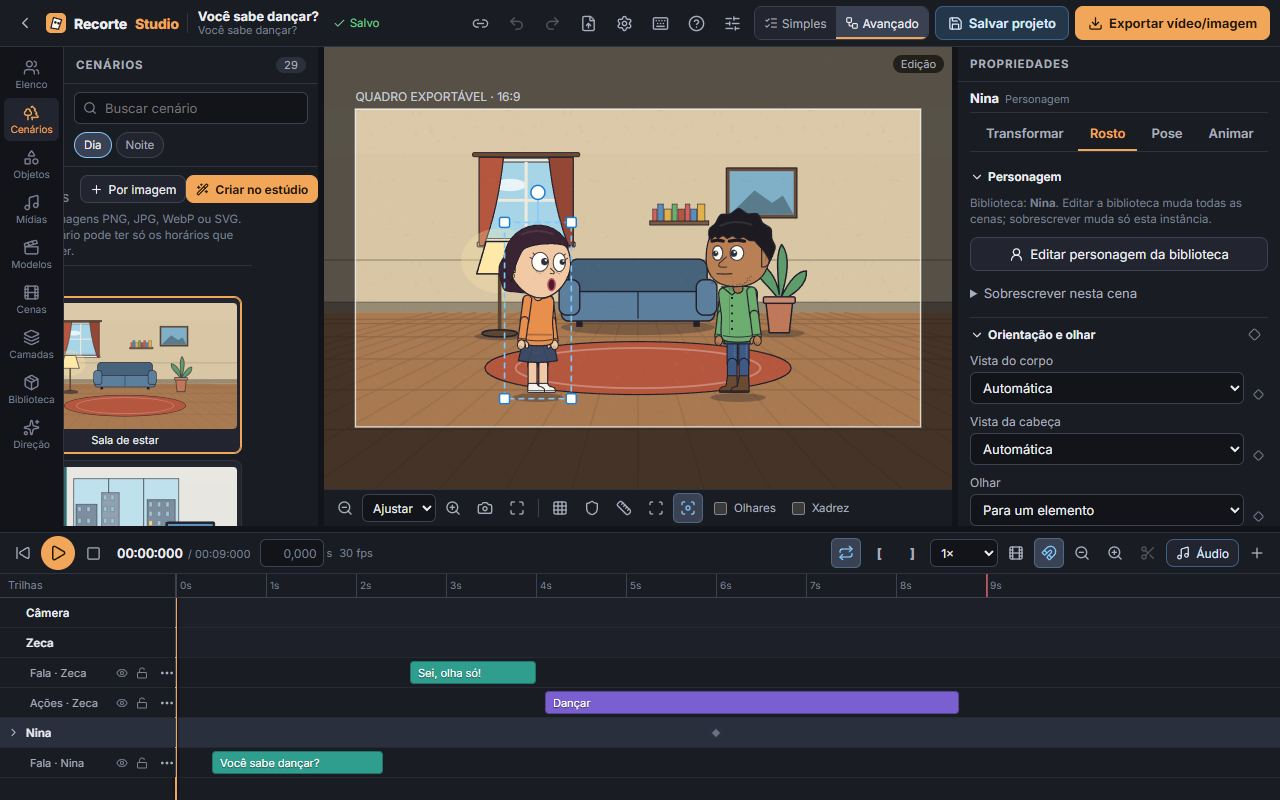
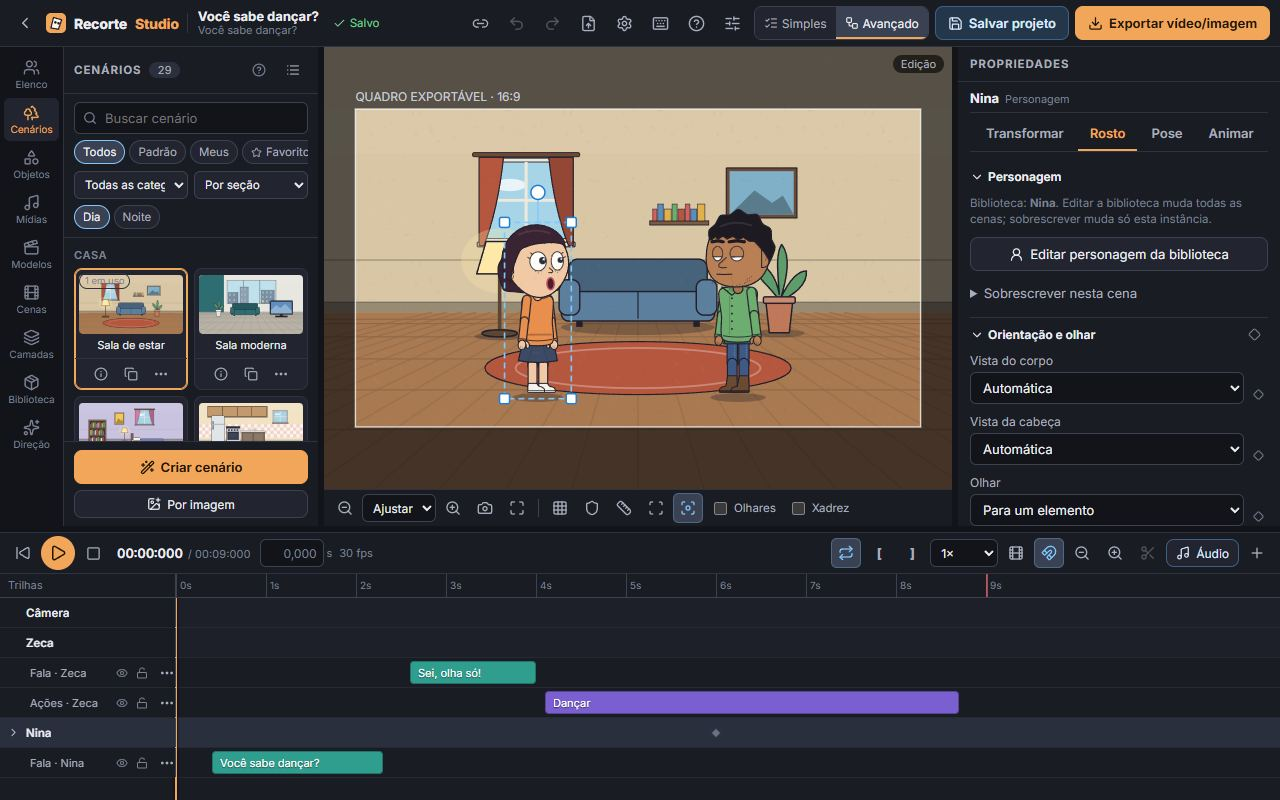
Manual, capturas e docs do catálogo, da animação por quadros e dos vínculos; teste de centenas de itens menos frágil
- Manual: capítulo novo "Catálogo: Elenco, Cenários e Objetos"; animação por quadros no
  Criador de Objetos; grupos e vínculos em Camadas; Shift+clique em Keyframes; biblioteca
- 3 capturas novas e as demais refeitas com a interface atual (manual:shots)
- docs/CATALOGO.md (arquitetura, compatibilidade, estado de cada critério, limitações),
  CHANGELOG, TESTES e ACEITACAO com os números reais

diff --git a/src/features/manual/chapters.ts b/src/features/manual/chapters.ts
@@ -150,6 +150,34 @@ export const MANUAL_CHAPTERS: Chapter[] = [
     related: ['animar', 'keyframes'],
   },
   {
+    id: 'catalogo', group: 'mundo', title: 'Catálogo: Elenco, Cenários e Objetos',
+    summary: 'Buscar, filtrar, ver detalhes, inserir, criar cópia editável e reutilizar em outros projetos.',
+    blocks: [
+      { p: 'As abas **Elenco**, **Cenários** e **Objetos** mostram o mesmo catálogo, cada uma com o que é dela. Ele junta três origens: itens **padrão** do app, itens **deste projeto** e itens da **minha biblioteca** (deste navegador, válidos em todos os projetos).' },
+      { img: 'catalogo.jpg', alt: 'Catálogo na aba Elenco', legend: ['Busca: não diferencia acentos nem maiúsculas.', 'Filtros: Todos, Padrão, Meus, Favoritos, Recentes e No projeto.', 'Categoria e ordem (por seção, nome, mais recentes ou favoritos primeiro).', 'Detalhes do item: vistas, estados e todas as ações.', 'Criar: sempre no rodapé, também no celular.'] },
+      { list: [
+        '**Clique no cartão** insere na cena (cenário: usa nesta cena; pose e sequência: aplicam ao personagem selecionado).',
+        'O selo do cartão mostra a origem (**Projeto**, **Meu**) e quantas vezes o item já está em uso.',
+        'O botão de lista/grade no topo troca a visualização. Busca e filtros de cada aba ficam guardados ao trocar de aba.',
+        'Listas grandes carregam aos poucos ao rolar (o botão **Mostrar mais** também funciona).',
+        'Registro da biblioteca que não pode ser lido aparece com o motivo e pode ser apagado; nunca some em silêncio.',
+      ] },
+      { img: 'catalogo-detalhes.jpg', alt: 'Detalhes de um personagem padrão', legend: ['Prévia real: 4 vistas do personagem (ou estados do objeto, horários do cenário, animações tocando).', 'O que acontece ao editar este item.', 'Inserir na cena.', 'Criar cópia editável (itens padrão).'] },
+      { h: 'Cópia ao editar' },
+      { p: 'Itens **padrão** nunca mudam. **Editar** um deles cria uma cópia sua, com identidade nova, guardada neste projeto, e abre o criador nela. Itens do projeto e da biblioteca são editados direto.' },
+      { h: 'Usar em outros projetos' },
+      { steps: [
+        'Nos detalhes de um item do projeto, clique em **Salvar na biblioteca**.',
+        'Abra outro projeto: o item aparece no catálogo com o selo **Meu**.',
+        'Clique para inserir: uma cópia completa (com imagens e objetos que ele usa) entra no projeto.',
+        'Mudou o item e quer guardar a versão nova? **Atualizar na biblioteca** grava no mesmo registro (não cria duplicado).',
+      ] },
+      { warn: 'Apagar da biblioteca não muda nenhum projeto: cada projeto guarda a própria cópia do que usa. Por isso um projeto nunca quebra por falta de item da biblioteca.' },
+      { tip: 'Exportar, nos detalhes, gera um arquivo .biblioteca.json que a aba Biblioteca importa em qualquer navegador.' },
+    ],
+    related: ['bibliotecas', 'criador-objetos', 'criador-personagens'],
+  },
+  {
     id: 'cenas', group: 'mundo', title: 'Cenas',
     summary: 'Criar, ordenar, duplicar e ligar cenas com transições.',
     blocks: [
@@ -168,7 +196,8 @@ export const MANUAL_CHAPTERS: Chapter[] = [
     id: 'cenarios', group: 'mundo', title: 'Cenários',
     summary: 'Cenários prontos, cenários por imagem e cenários do Criador de Cenários, com horários.',
     blocks: [
-      { img: 'cenarios.jpg', alt: 'Painel de cenários', legend: ['Criar um cenário no Criador de Cenários.', 'Criar um cenário a partir de imagens.'] },
+      { img: 'cenarios.jpg', alt: 'Painel de cenários', legend: ['Criar um cenário no Criador de Cenários.', 'Criar um cenário a partir de imagens (um por horário).'] },
+      { p: 'A aba **Cenários** é o catálogo de ambientes e fundos (veja [Catálogo](#catalogo)). Ela não mexe nas **Cenas** do projeto, que ficam na aba Cenas.' },
       { list: [
         '**Prontos:** salas, cozinha, escola, rua, parque e outros, com variante dia/noite, tom e cores ajustáveis (aba Visual).',
         '**Meus cenários:** podem ter os horários Manhã, Dia, Tarde, Entardecer e Noite. Cada horário é opcional.',
@@ -209,6 +238,8 @@ export const MANUAL_CHAPTERS: Chapter[] = [
         'Objetos prontos por categoria (móveis, casa, eletrônicos, objetos de mão, veículos, trabalho, natureza), com cores e estados (ligado/desligado, aberto/fechado).',
         'Objetos de mão podem ser **segurados** por um personagem (aba Aparência → Segurado por).',
         'Texto, forma, luz ou sombra 2D e imagem (PNG, JPEG, WebP, GIF, SVG). SVGs são limpos de scripts por segurança.',
+        '**Efeitos animados** prontos (Fogueira, Ventilador) e o **Barco**: inserir traz o objeto para o projeto uma vez; as próximas cópias reaproveitam.',
+        'Editar um objeto padrão cria uma cópia sua no Criador de Objetos; o original continua igual.',
       ] },
     ],
     related: ['criador-objetos', 'camadas'],
@@ -227,6 +258,18 @@ export const MANUAL_CHAPTERS: Chapter[] = [
         'Editar o objeto atualiza todas as cópias. Excluir avisa quantas vezes ele está em uso.',
       ] },
       { tip: 'Ctrl+Z desfaz também dentro dos criadores.' },
+      { h: 'Animação por quadros (fogo, porta, água…)' },
+      { p: 'A animação fica salva **no objeto**: toda cópia na cena anima sozinha, sem keyframes, também no PNG e no vídeo. Um objeto sem animação continua estático e simples.' },
+      { img: 'criador-objetos-quadros.jpg', alt: 'Quadros de uma animação', legend: ['Escolha o que editar: o desenho estático ou uma animação.', 'Quadros: clique para editar um; o selecionado tem borda laranja.', '+ Quadro duplica o atual logo depois dele.', 'Duração do quadro em milissegundos (Todos ajusta todos).', 'Tocar a prévia.'] },
+      { steps: [
+        'Clique em **Nova animação** e dê um nome (ex.: Aceso). Ela começa com 1 quadro, cópia do desenho.',
+        'Mude as peças do quadro. Use **+ Quadro** para o próximo e mude de novo.',
+        'Ajuste a duração de cada quadro (ou **Todos**) e o modo: **Repetir**, **Uma vez** ou **Vai e volta**.',
+        '**Papel vegetal** mostra o quadro anterior por baixo. Copiar/colar quadro e mover para os lados também estão na barra.',
+        '**Toca ao inserir** define a animação padrão do objeto. Um objeto pode ter várias (ex.: Aceso e Apagando).',
+      ] },
+      { p: 'Na cena, em **Propriedades → Aparência → Animação do objeto**, cada cópia escolhe a animação, a **velocidade** e a **defasagem** (para cópias iguais não andarem juntas). Trocar a animação com keyframe faz ela começar naquele instante.' },
+      { warn: 'Um objeto animado usado DENTRO de outro objeto ou de um cenário aparece parado no primeiro quadro.' },
     ],
     related: ['objetos', 'criador-cenarios', 'bibliotecas'],
   },
@@ -241,6 +284,16 @@ export const MANUAL_CHAPTERS: Chapter[] = [
         'Sombra no chão, máscara 2D (retângulo ou elipse), parallax e desfoque.',
         '**Escala pela profundidade**: com a perspectiva falsa da cena ligada, o elemento cresce ao descer no palco.',
       ] },
+      { h: 'Grupos e vínculos (barco com passageiros)' },
+      { p: 'Um **grupo** é pai dos elementos dentro dele: mover, girar, escalar ou animar o grupo leva todos juntos, e cada um continua com as próprias falas, ações, piscadas e keyframes.' },
+      { steps: [
+        'Em **Camadas**, selecione o barco e, com Shift, os passageiros; clique em **Agrupar**.',
+        'Ou selecione um elemento e use **Propriedades → Camadas → Vinculado a** para prendê-lo a um grupo que já existe.',
+        'Anime o grupo (por exemplo, posição Y e rotação para balançar).',
+        'As faixas dos passageiros continuam na timeline, logo abaixo do grupo ("Grupo › Nina").',
+      ] },
+      { p: 'Vincular, soltar e desagrupar mantêm cada elemento exatamente onde estava na tela, mesmo com o grupo girado ou escalado. Um grupo não pode ficar dentro dele mesmo.' },
+      { warn: 'Arrastar no palco um elemento que está dentro de um grupo girado move no sentido do grupo. Para ajuste fino, use os campos numéricos.' },
     ],
     related: ['propriedades'],
   },
@@ -307,7 +360,7 @@ export const MANUAL_CHAPTERS: Chapter[] = [
         'Não duplica nem sobrescreve: o que já tem keyframe naquele instante é mantido como está, e o aviso diz quantos foram criados e quantos já existiam.',
         'É uma única ação: um Ctrl+Z desfaz todos de uma vez.',
         'O losango mostra o estado neste instante: **vazio** (nenhuma propriedade com keyframe), **meio preenchido** (algumas) ou **cheio** (todas). Passe o mouse ou segure o dedo para ver quantas.',
-        'Não remove nada: para tirar um keyframe, use o losango da própria propriedade.',
+        '**Shift+clique** (no celular, toque longo → Remover os deste instante) remove só os keyframes desta seção **exatamente no tempo atual**. Outros instantes, outras seções e faixas trancadas ficam intactos; é um único Ctrl+Z. Se algum era o único keyframe da propriedade, o app pergunta antes (a animação dela acaba e o valor volta ao valor-base).',
         'Funciona do mesmo jeito no modo simples e no avançado, e no celular.',
       ] },
       { tip: 'Seções com uma só propriedade animável não têm o losango da seção: o do campo já basta.' },
@@ -388,8 +441,9 @@ export const MANUAL_CHAPTERS: Chapter[] = [
       { list: [
         'Personagens, poses, cenas e sequências: aba **Biblioteca**.',
         'Áudios: aba **Mídias** (botão de marcador).',
-        'Objetos: Criador de Objetos → Biblioteca; aparecem em Objetos → Meus objetos → Da minha biblioteca.',
-        'Cenários: Criador de Cenários → Biblioteca; aparecem em Cenários → Meus cenários.',
+        'Personagens, objetos e cenários do projeto: detalhes do item no [catálogo](#catalogo) → **Salvar na biblioteca**; aparecem com o selo **Meu** nas abas Elenco, Objetos e Cenários.',
+        'Objetos e cenários também pelo botão **Biblioteca** dos criadores. Salvar de novo atualiza o mesmo registro.',
+        'Poses: Elenco → **Salvar pose** (com um personagem selecionado); aparecem em Elenco → Poses.',
       ] },
       { warn: 'A biblioteca não vai junto num .jrec. O .jrec leva o que o projeto usa.' },
     ],

diff --git a/src/features/manual/marks.generated.ts b/src/features/manual/marks.generated.ts
@@ -2,21 +2,24 @@
 export const MARKS: Record<string, Array<{ n: number; x: number; y: number }>> = {
   'camadas.jpg': [{"n":1,"x":14.9,"y":23.7}],
   'camera.jpg': [{"n":1,"x":37.9,"y":63.5},{"n":2,"x":80.9,"y":13.9},{"n":3,"x":89.6,"y":13.9},{"n":4,"x":96,"y":13.9}],
+  'catalogo-detalhes.jpg': [{"n":1,"x":50,"y":35.6},{"n":2,"x":50,"y":64.4},{"n":3,"x":46,"y":71.4},{"n":4,"x":57.6,"y":71.4}],
+  'catalogo.jpg': [{"n":1,"x":15.7,"y":14.8},{"n":2,"x":14.9,"y":19.1},{"n":3,"x":10.2,"y":23.1},{"n":4,"x":7.9,"y":40.5},{"n":5,"x":14.9,"y":58.4}],
   'celular-pose.jpg': [{"n":1,"x":50,"y":49.7}],
   'celular.jpg': [{"n":1,"x":50,"y":51.7},{"n":2,"x":71.5,"y":2.6},{"n":3,"x":84.5,"y":2.6},{"n":4,"x":7.1,"y":95.9},{"n":5,"x":64.3,"y":95.9},{"n":6,"x":92.9,"y":95.9}],
-  'cenarios.jpg': [{"n":1,"x":19.7,"y":23.6},{"n":2,"x":10.4,"y":23.6}],
+  'cenarios.jpg': [{"n":1,"x":14.9,"y":58.4},{"n":2,"x":14.9,"y":63}],
   'cenas.jpg': [{"n":1,"x":14.9,"y":13}],
   'configuracoes.jpg': [{"n":1,"x":27.8,"y":30.1},{"n":2,"x":27.8,"y":35.4},{"n":3,"x":27.8,"y":56.4},{"n":4,"x":75.6,"y":23}],
   'criador-cenarios-inicio.jpg': [{"n":1,"x":13.4,"y":12},{"n":2,"x":22.8,"y":29.1},{"n":3,"x":31.8,"y":42}],
   'criador-cenarios.jpg': [{"n":1,"x":4.8,"y":12},{"n":2,"x":36.7,"y":23.4},{"n":3,"x":77.9,"y":18.8},{"n":4,"x":95.6,"y":18.8},{"n":5,"x":86.9,"y":4.2}],
-  'criador-objetos.jpg': [{"n":1,"x":8.5,"y":12},{"n":2,"x":36.7,"y":23.5},{"n":3,"x":77.9,"y":18.9},{"n":4,"x":86.8,"y":18.9},{"n":5,"x":87.2,"y":4.2}],
+  'criador-objetos-quadros.jpg': [{"n":1,"x":10.9,"y":19},{"n":2,"x":50,"y":24.1},{"n":3,"x":6.6,"y":32.5},{"n":4,"x":30.4,"y":32.5},{"n":5,"x":2,"y":32.5}],
+  'criador-objetos.jpg': [{"n":1,"x":8.5,"y":12},{"n":2,"x":36.7,"y":28.6},{"n":3,"x":77.9,"y":24},{"n":4,"x":86.8,"y":24},{"n":5,"x":87.2,"y":4.2}],
   'criador-personagem.jpg': [{"n":1,"x":74,"y":11.8},{"n":2,"x":32.3,"y":12},{"n":3,"x":92.6,"y":95}],
   'editor.jpg': [{"n":1,"x":2.5,"y":9.1},{"n":2,"x":49.8,"y":8.4},{"n":3,"x":87.4,"y":13.8},{"n":4,"x":50,"y":69},{"n":5,"x":65.7,"y":2.9},{"n":6,"x":78.3,"y":2.9},{"n":7,"x":91.6,"y":2.9}],
   'exportar.jpg': [{"n":1,"x":50,"y":23},{"n":2,"x":69.1,"y":85.9}],
   'inicio.jpg': [{"n":1,"x":31.1,"y":34.8},{"n":2,"x":44.6,"y":34.8},{"n":3,"x":9,"y":17},{"n":4,"x":9,"y":22.8},{"n":5,"x":9,"y":28.5},{"n":6,"x":9,"y":34.3}],
   'midias.jpg': [{"n":1,"x":10.5,"y":13.3},{"n":2,"x":10.7,"y":17.5},{"n":3,"x":13.1,"y":44.1}],
   'modelos.jpg': [{"n":1,"x":59.1,"y":17.1}],
-  'objetos.jpg': [{"n":1,"x":19.9,"y":27.3}],
+  'objetos.jpg': [{"n":1,"x":14.9,"y":62.6}],
   'pose.jpg': [{"n":1,"x":85.5,"y":20.2},{"n":2,"x":86.4,"y":53.4}],
   'projetos.jpg': [{"n":1,"x":36.3,"y":16.6},{"n":2,"x":57,"y":16.6},{"n":3,"x":92.8,"y":16.6},{"n":4,"x":32.6,"y":53.3},{"n":5,"x":34,"y":25.2}],
   'propriedades.jpg': [{"n":1,"x":87.4,"y":16.6},{"n":2,"x":80.1,"y":16.8},{"n":3,"x":86.5,"y":16.8},{"n":4,"x":91.2,"y":16.8},{"n":5,"x":96.2,"y":16.8}],

diff --git a/tests/e2e/manual.spec.ts b/tests/e2e/manual.spec.ts
@@ -72,6 +72,13 @@ test('capturas do manual (computador)', async ({ page }) => {
   await capture(page, 'criador-personagem', [t('creator-tab-cabelo'), t('creator-preview'), t('creator-done')]);
   await page.keyboard.press('Escape');
 
+  // Catálogo (Elenco)
+  await tab(page, 'characters');
+  await capture(page, 'catalogo', [t('char-search'), t('catalog-filters'), t('catalog-category'), '[data-testid="builtin-character"] [data-testid="catalog-details-open"]', t('create-character')]);
+  await page.locator('[data-testid="builtin-character"] [data-testid="catalog-details-open"]').first().click();
+  await capture(page, 'catalogo-detalhes', [t('catalog-views'), t('catalog-policy'), t('catalog-insert'), t('catalog-copy')]);
+  await page.keyboard.press('Escape');
+
   // Painéis
   await tab(page, 'scenes');
   await capture(page, 'cenas', ['[data-testid="scene-row"]']);
@@ -111,6 +118,13 @@ test('capturas do manual (computador)', async ({ page }) => {
   await page.getByTestId('add-star').click();
   await page.getByTestId('obj-studio-tab-add').click();
   await capture(page, 'criador-objetos', [t('object-width'), t('obj-studio-canvas'), t('obj-studio-tab-add'), t('obj-studio-tab-layers'), t('object-insert')]);
+  // Quadros: uma animação com 3 quadros.
+  await page.getByTestId('anim-new').click();
+  await page.getByTestId('prompt-input').fill('Piscando');
+  await page.getByTestId('prompt-ok').click();
+  await page.getByTestId('anim-frame-add').click();
+  await page.getByTestId('anim-frame-add').click();
+  await capture(page, 'criador-objetos-quadros', [t('anim-clip'), t('anim-frames'), t('anim-frame-add'), t('anim-frame-ms'), t('anim-play')]);
   await page.getByTestId('object-creator-close').click();
 
   await tab(page, 'backgrounds');

diff --git a/tests/e2e/catalog.spec.ts b/tests/e2e/catalog.spec.ts
@@ -166,7 +166,9 @@ test.describe('catálogo · computador', () => {
     const openMs = Date.now() - t0;
     // Só a primeira página está no DOM; o resto vem ao rolar.
     const first = await page.locator('[data-testid="objects-panel"] .cat-card').count();
-    expect(first).toBeLessThanOrEqual(60);
+    // Bem menos que os 400: o resto só entra ao rolar (ou em "Mostrar mais").
+    expect(first).toBeLessThan(150);
+    await expect(page.getByRole('button', { name: /Mostrar mais/ })).toBeVisible();
     await expect(page.getByTestId('catalog-count')).toHaveText(/^4\d\d$/);
     const t1 = Date.now();
     await page.getByTestId('prop-search').fill('caixa 377');

diff --git a/docs/CATALOGO.md b/docs/CATALOGO.md
@@ -1,0 +1,76 @@
+# Catálogo, biblioteca e animação de objetos
+
+Expansão feita na branch `feature/recorte-studio-catalogo-biblioteca`, a partir da 1.2. Este documento descreve o que existe de verdade, como funciona por dentro e o que ainda falta.
+
+## Arquitetura
+
+### Catálogo unificado (`src/features/catalog/catalog.ts`)
+
+As abas **Elenco**, **Cenários** e **Objetos** são três visões de uma única lista de registros tipados (`CatalogEntry`). Não existe banco novo nem um banco por aba: o catálogo é montado a partir de três fontes que já existiam.
+
+| Origem | De onde vem | Edição |
+| --- | --- | --- |
+| Padrão (`builtin`) | Elenco pronto, cenários prontos, objetos prontos e objetos montados padrão (Fogueira, Ventilador, Barco) embarcados no código | Imutável. "Editar" cria uma cópia com ID novo, guardada no projeto |
+| Projeto (`project`) | `project.characters`, `project.customObjects`, `project.customBackgrounds` | Editável; muda o item em todas as cenas do projeto |
+| Minha biblioteca (`mine`) | Tabela `library` do IndexedDB (a mesma da 1.1/1.2) | Editável; vale para todos os projetos deste navegador |
+
+Cada registro tem chave estável com espaço de nomes (`builtin:prop:sofa`, `project:object:obj_x`, `mine:lib_y`, `builtin:object:fogueira`…), visão, tipo, categoria, nome, palavras-chave, origem, política de edição, favorito, data, uso no projeto, estados/animações e, quando o registro não pode ser lido, o motivo (`broken`). Favoritos e recentes de itens sem campo próprio ficam nas preferências (`catalogFavorites`, `catalogRecents`); personagens do projeto e registros da biblioteca usam o próprio campo `favorite`, como antes.
+
+`queryCatalog` faz busca sem acento, filtros (Todos, Padrão, Meus, Favoritos, Recentes, No projeto), categoria e ordem. Funções puras, testadas em unidade.
+
+### Política única de dependências
+
+Usar um item da biblioteca **copia** o item para o projeto, com imagens e objetos aninhados (pacote v2 da 1.2, agora incluindo o conteúdo dos quadros de animação). Consequências:
+
+- apagar ou mudar a biblioteca nunca quebra um projeto existente;
+- o `.jrec` continua autossuficiente (leva o que o projeto usa);
+- a **identidade** é preservada: trazer para o projeto mantém o ID; salvar de novo na biblioteca ATUALIZA o mesmo registro (`upsertLibrary`); duplicar cria identidade nova. Assim o catálogo não mostra duas vezes o mesmo item (projeto e biblioteca com o mesmo ID aparecem uma vez, com o selo "também na biblioteca").
+
+### Animação por quadros no objeto
+
+`CustomObject` ganhou `clips` (até 16) e `defaultClip`. Cada animação tem nome, modo (`loop`, `once`, `pingpong`) e quadros (até 240), cada quadro com duração (20 a 10 000 ms) e a lista completa de peças. Um objeto sem animação continua com `clips: []`.
+
+O quadro desenhado é **função pura do tempo** (`clipFrameIndex`): o renderizador único (`planFrame`) recebe o tempo local da instância e escolhe o quadro. Prévia, busca fora de ordem, PNG e vídeo pegam o mesmo quadro no mesmo instante. Nenhum `setInterval` ou estado acumulado participa do render final; a prévia "Tocar" do Criador e dos detalhes do catálogo usa `requestAnimationFrame` só na interface.
+
+Por instância (nó `prop`): `clip` (`''` = padrão do objeto, `'static'`, ou o ID), `clipSpeed` e `clipOffsetMs`. `clip` é uma propriedade discreta animável: trocar a animação com keyframe faz ela começar no instante desse keyframe.
+
+### Hierarquia pai/filho (`src/engine/model/hierarchy.ts`)
+
+O desenho já aninhava os filhos dentro do `<g>` dos grupos; o que faltava eram as contas para vincular e soltar sem salto. O módulo calcula a matriz 2D local (mesma ordem do SVG: translate, rotate com pivô, scale), a matriz de mundo pela cadeia de pais, a inversa e a decomposição de volta em x, y, rotação e escala. `setParent` vincula ou solta mantendo a posição no mundo, bloqueia ciclos e só aceita grupos como pai. `ungroup` passou a usar as mesmas contas.
+
+## Compatibilidade
+
+- `SCHEMA_VERSION` continua 1: todos os campos novos têm padrão no Zod (`clips: []`, `defaultClip: ''`, `clip: ''`, `clipSpeed: 1`, `clipOffsetMs: 0`). Projetos 1.0, 1.1 e 1.2 abrem sem migração e sem mudança visual (testes de migração e de histórias completas da suíte E2E).
+- Registros antigos da biblioteca (1.1 e 1.2) continuam lidos; o campo opcional `updatedAt` é só acrescentado ao salvar.
+- `LibraryRecord.kind` não mudou; nenhum índice novo no IndexedDB.
+
+## Formato de pacote opcional
+
+**Não implementado nesta etapa.** O catálogo já separa a origem "Padrão" e reserva o espaço para "Pacotes", mas não há instalação, ativação, desinstalação nem manifesto. O filtro "Pacotes" não aparece na interface para não fingir uma função que não existe.
+
+## Estado por critério de aceitação do Super Prompt
+
+| # | Caso | Estado | Evidência |
+| --- | --- | --- | --- |
+| 1 | Catálogo: busca sem acento, filtros, miniatura, inserir, nas três abas | PASSOU | E2E `catalog.spec.ts` (Elenco; Cenários e Objetos) |
+| 2 | Cópia ao editar de objeto padrão, cor muda só na cópia, cópia inserível | PASSOU | E2E `catalog.spec.ts`; unit `catalog.test.ts` |
+| 3 | Uso entre projetos | PASSOU | E2E (outro projeto novo); unit |
+| 4 | Migração e .jrec da 1.2 | PASSOU (regressão) | Suíte E2E de histórias e migração; unit de compatibilidade dos campos novos |
+| 5 | Pacote importável/desativável | NÃO IMPLEMENTADO | — |
+| 6 | Fogo com 4+ quadros, 3 instâncias em 2 cenas, defasagem, vídeo | PASSOU | E2E `object-anim.spec.ts`: cor de cada fogo conferida pixel a pixel em 5 instantes do vídeo exportado |
+| 7 | Barco com passageiros | PARCIAL | E2E pela interface (vincular sem salto, balanço, fala continua, recarregar) e unit no renderizador (o mesmo da exportação). Não há vídeo exportado do barco conferido em pixel; não há pontos de encaixe nomeados |
+| 8 | Roupa com texto, manequim | NÃO IMPLEMENTADO | — |
+| 9 | Cor por parte do corpo, esclera por olho | NÃO IMPLEMENTADO | — |
+| 10 | Pose especial e compatibilidade por rig | NÃO IMPLEMENTADO | — |
+| 11 | Mão de A na frente de B | NÃO IMPLEMENTADO | — |
+| 12 | Celular: abrir, buscar, filtrar, prévia e inserir nas três abas | PASSOU* | E2E em 390×844 com toque emulado. *Chrome de desktop emulando, sem aparelho físico |
+| 13 | Undo/redo e Shift+clique da seção | PASSOU | unit e E2E (remove só o instante, um Ctrl+Z, confirmação) |
+| 14 | Centenas de itens | PASSOU | E2E com 400 registros: abrir ~160–400 ms, buscar ~40–70 ms, só a 1ª página desenhada |
+
+## Limitações conhecidas
+
+- Objeto animado usado dentro de outro objeto ou de uma composição de cenário aparece parado no primeiro quadro.
+- Arrastar no palco um filho de grupo girado move no sentido do grupo (os campos numéricos ficam exatos).
+- Olhar para um elemento e "segurado por" usam a posição local de quem está dentro de grupo.
+- A decomposição de matrizes não representa cisalhamento (pai com escala não uniforme e filho girado).
+- Criar cópia de cenário padrão gera três passos no histórico (criar, Dia, Noite).

diff --git a/docs/TESTES.md b/docs/TESTES.md
@@ -30,6 +30,23 @@ Versão 1.2.0 (com os dois ajustes pré-lançamento), executados em 08/11/2026. 
 
 **E2E novos na 1.1:** salvar .jrec e reabrir em contexto limpo com áudio; projeto 0.4 regravado em .jrec; mídia ausente (aviso, "Salvar incompleto", lista no manifest, alerta em Mídias); aba Mídias (importar por categoria, reaproveitar arquivo repetido, usar na cena, remover com aviso de uso e desfazer); cenário próprio com 1, 3 e 5 horários, troca de horário e persistência; modo simples × avançado sobre os mesmos dados, com desfazer; PWA recarregando offline no mesmo link `?projeto=`; 390×844 com Salvar, Áudio e modo simples sem estourar a tela.
 
+## Branch do catálogo e da biblioteca (sobre a 1.2)
+
+Executados em 08/11/2026 na branch `feature/recorte-studio-catalogo-biblioteca`, mesmo ambiente.
+
+| Comando | Resultado |
+| --- | --- |
+| `npm run typecheck` e `npm run lint` | Sem erros nem avisos |
+| `npm test` | **368 de 368** testes, 21 arquivos (318 da 1.2 + 50 novos) |
+| `npm run test:e2e` | **108 de 109** numa única execução (11,0 min). A falha foi uma checagem rígida demais do teste novo de centenas de itens (61 cartões na 1ª página, o limite era 60); o teste foi ajustado para conferir o que importa (bem menos que 400 e "Mostrar mais" presente) e passou 3 de 3 isolado. A suíte inteira não foi rodada de novo depois do ajuste |
+| `npm run manual:shots` | 2 de 2; 3 capturas novas (catálogo, detalhes, quadros do Criador de Objetos) |
+
+**Novos unitários:** `catalog.test.ts` (28: origens, chaves, busca sem acento, filtros, categorias, ordem, 600 registros, registros quebrados, cena salva antiga, cópia ao editar de objeto/personagem/cenário, objetos animados padrão, biblioteca entre projetos, atualizar o mesmo registro, duplicar, exportar, favoritos, remoção recusada; Shift+clique remove só o instante, um Ctrl+Z, faixa trancada, arredondamento), `object-clips.test.ts` (14: modos repetir/uma vez/vai e volta, durações diferentes, função pura do tempo, 3 cópias com defasagem no renderizador, busca fora de ordem, velocidade, animação acionada por keyframe, compatibilidade, JSON do .jrec, pacote leva o que está dentro dos quadros, limites), `hierarchy.test.ts` (8: matrizes com pivô, decompor/recompor, vincular e soltar sem salto com grupo girado e escalado, ciclos, desagrupar sem salto, grupo dentro de grupo, barco com passageiros no renderizador, salvar/reabrir).
+
+**Novos E2E:** `catalog.spec.ts` (14: Elenco, Cenários e Objetos; cópia ao editar com cor conferida no desenho; personagem e cenário padrão; uso entre projetos; 400 registros: abrir ~160–400 ms, buscar ~40–70 ms; registro quebrado apagável; celular 390×844 com toque nas três abas, modal dentro da tela; Shift+clique com Ctrl+Z e com confirmação), `object-anim.spec.ts` (2: fogo de 4 quadros criado na interface, 3 cópias em 2 cenas, defasagem, recarregar, **cor de cada fogo conferida pixel a pixel em 5 instantes do vídeo exportado**; barco com passageiros vinculados sem salto, balanço, fala continuando, faixas na timeline e mesmo lugar após recarregar).
+
+**Bugs encontrados pelos testes e corrigidos:** pedido de nome dentro do Criador aparecia por baixo dele; desagrupar grupo girado fazia os filhos pularem; elementos de grupos sumiam da timeline.
+
 ## Novos na 1.2
 
 **Unitários** (`library-bundles`, `creators`, `limb-depth`, `quick-actions`, `story-load`, `manual`, `v12`): pacotes de biblioteca (fecho de objetos aninhados, leitura de formatos antigos e de lixo, reaproveitar × copiar, ciclos); invalidação dos caches de objetos, cenários e miniaturas; quadro vertical, 1:1 e 4:3 nos modelos do Criador de Cenários; seleção de peças giradas, espelhadas e escaladas; mover, girar e escalar grupos sem deriva; profundidade de braços e mãos em 8 vistas × poses; ações rápidas do celular por tipo de seleção e por estado no tempo; história grande (validade, determinismo, preview × exportação, **120 quadros de uma cena com cenário de 80 peças e 10 figurantes abaixo de 25 ms por quadro**); manual (todo link, ajuda contextual, imagem e marcação existem; busca); validação do modo simples; pré-escuta de áudio com cancelamento.

diff --git a/CHANGELOG.md b/CHANGELOG.md
@@ -1,5 +1,26 @@
 # Changelog
 
+## Em desenvolvimento: catálogo, biblioteca e animação de objetos
+
+Branch `feature/recorte-studio-catalogo-biblioteca`, sobre a 1.2. Sem lançamento. Detalhes, arquitetura e o que ainda não existe em `docs/CATALOGO.md`.
+
+### Novidades
+
+- **Catálogo unificado** nas abas Elenco, Cenários e Objetos: itens padrão, do projeto e da minha biblioteca numa lista só; busca sem acento; filtros Todos, Padrão, Meus, Favoritos, Recentes e No projeto; categorias; ordem; grade ou lista; miniaturas reais; selo de origem e de uso; carregamento progressivo; detalhes com 4 vistas (personagens), estados (objetos), horários (cenários) e animações tocando.
+- **Cópia ao editar:** editar um personagem, objeto ou cenário padrão cria uma cópia com identidade nova no projeto; o original nunca muda.
+- **Biblioteca com identidade:** salvar de novo atualiza o mesmo registro; trazer para o projeto mantém o ID; duplicar cria um item novo; exportar gera `.biblioteca.json`.
+- **Animação por quadros salva no objeto** (fogo, porta, ventilador…): várias animações por objeto, duração por quadro, repetir/uma vez/vai e volta, papel vegetal, copiar/colar e reordenar quadros. Cada cópia na cena escolhe animação, velocidade e defasagem; trocar por keyframe faz a animação começar ali. O quadro é função pura do tempo: prévia, PNG e vídeo iguais.
+- **Exemplos originais:** Fogueira (Aceso, Apagando), Ventilador (Girando, Devagar) e Barco.
+- **Vínculo pai/filho:** Propriedades → Camadas → Vinculado a. O elemento acompanha o grupo (posição, giro, escala, keyframes) e mantém as próprias falas, ações e piscadas. Vincular e soltar não mudam a posição na tela.
+- **Shift+clique no losango da seção** (ou toque longo) remove só os keyframes daquela seção no instante atual, com um único Ctrl+Z e confirmação quando acaba com a animação de uma propriedade.
+
+### Correções
+
+- Diálogos de nome e confirmação abertos dentro dos criadores apareciam por baixo do criador.
+- Desagrupar um grupo girado ou escalado fazia os elementos pularem; desagrupar um grupo dentro de outro removia a última camada da cena.
+- Elementos dentro de grupos sumiam da timeline (falas e ações deles não eram editáveis); agora aparecem como "Grupo › Nome".
+- Restaurar as configurações não apaga mais favoritos e recentes do catálogo.
+
 ## 1.2.0
 
 Tela inicial e Configurações novas, manual dentro do app, propriedades em abas, Criador de Objetos e de Cenários, profundidade de braços e mãos, cabelos longos corrigidos, interface própria para celular. Sem backend e sem dependência online; projetos 1.0 e 1.1 continuam abrindo.

diff --git a/docs/ACEITACAO.md b/docs/ACEITACAO.md
@@ -19,6 +19,27 @@ Legenda: **PASSOU** = implementado e verificado em teste automatizado. **PARCIAL
 | 11 | Timeline real e vídeo real | PASSOU | E2E 14 com `ffprobe` |
 | 12 | Salvamento seguro, migração, regressão | PASSOU | E2E 1, 11; `migration.test.ts` |
 
+## Super Prompt: catálogo, biblioteca e expansão (branch do catálogo)
+
+| # | Caso | Estado | Evidência |
+| --- | --- | --- | --- |
+| 1 | Catálogo nas três abas | PASSOU | E2E `catalog.spec.ts` |
+| 2 | Cópia ao editar | PASSOU | E2E e unit |
+| 3 | Uso entre projetos | PASSOU | E2E e unit |
+| 4 | Migração e .jrec da 1.2 | PASSOU | Suíte de regressão; campos novos com padrão |
+| 5 | Pacotes opcionais | NÃO IMPLEMENTADO | |
+| 6 | Fogo animado em 3 cópias, 2 cenas, vídeo | PASSOU | E2E `object-anim.spec.ts` com pixels do vídeo |
+| 7 | Barco com passageiros | PARCIAL | Interface e renderizador testados; sem vídeo do barco conferido; sem pontos de encaixe nomeados |
+| 8 | Roupa com texto e manequim | NÃO IMPLEMENTADO | |
+| 9 | Cor por parte do corpo e esclera por olho | NÃO IMPLEMENTADO | |
+| 10 | Pose especial e compatibilidade por rig | NÃO IMPLEMENTADO | |
+| 11 | Mão de A na frente de B | NÃO IMPLEMENTADO | |
+| 12 | Celular nas três abas | PASSOU* | *Chrome emulando 390×844 com toque |
+| 13 | Undo/redo e Shift+clique da seção | PASSOU | unit e E2E |
+| 14 | Centenas de itens | PASSOU | E2E com 400 registros |
+
+Detalhes em [CATALOGO.md](CATALOGO.md).
+
 ## Por área do prompt
 
 | Seção | Item | Estado | Observação |

diff --git a/README.md b/README.md
@@ -123,6 +123,7 @@ Decisões que sustentam o resto:
 - **Manual:** dentro do app (Manual na tela inicial, F1 ou os ícones ? do editor); funciona offline
 - [docs/ACEITACAO.md](docs/ACEITACAO.md): checklist com PASSOU, PARCIAL ou NÃO IMPLEMENTADO
 - [docs/TESTES.md](docs/TESTES.md): comandos, números e ambiente
+- [docs/CATALOGO.md](docs/CATALOGO.md): catálogo unificado, biblioteca, animação por quadros e vínculo pai/filho (arquitetura, compatibilidade e estado de cada critério)
 - [docs/AUDITORIA-0.4.md](docs/AUDITORIA-0.4.md): inventário do legado
 - [docs/MIGRACAO.md](docs/MIGRACAO.md): como os dados antigos são convertidos
 - [docs/LICENCAS.md](docs/LICENCAS.md): dependências e autoria dos assets
